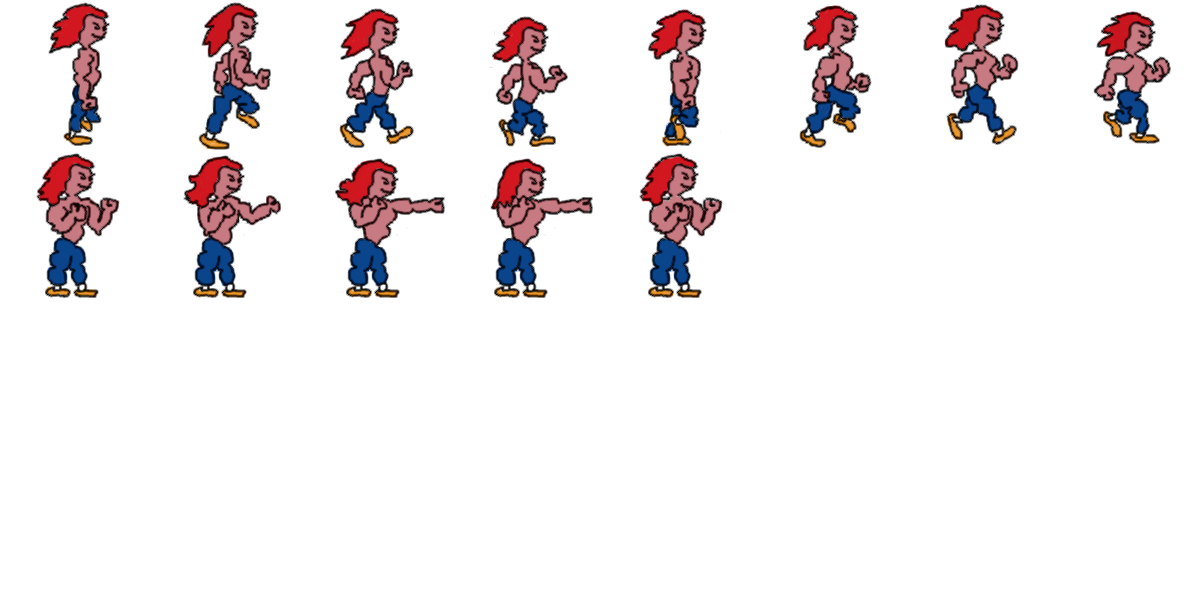
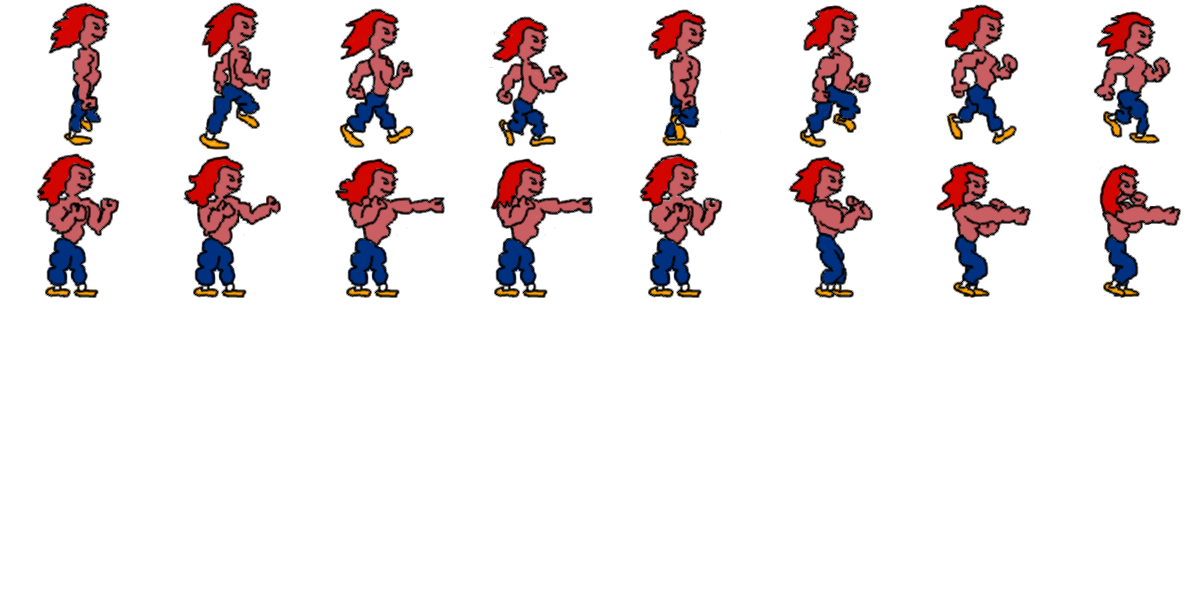
Punching with both hands

diff --git a/game.js b/game.js
@@ -305,6 +305,7 @@
         this.keys = keys;
         this.jump = 0;
         this.jumpStart = 0;
+        this.punchRight = 1;
 
         // initialization
         this.state = 'walk';
@@ -318,6 +319,7 @@
             if (this.state != "punch") {
                 this.animationFrame = 0;
                 this.state = "punch";
+                this.punchRight = this.punchRight < 1 ? 1 : 0;
                 /* This is actually a whoosh sound and will always be played, despite if punch hits or misses. 
                      * TODO: change name from punchSoundMiss to punchSoundWhoosh or something. */
                 punchSound = document.getElementById("punchSoundMiss" + (punchIter++ % 2));
@@ -388,10 +390,11 @@
         rudydres.style.top = this.y - this.jump + 'px';
 
         rudydres.style.transform = 'scaleX(' + this.scaleX + ')';
-        rudydresimage.style.marginLeft = -((Math.floor(this.animationFrame / 5) % 8) * 150) + 'px';
         if (this.state === "walk") {
+        	rudydresimage.style.marginLeft = -((Math.floor(this.animationFrame / 5) % 8) * 150) + 'px';
             rudydresimage.style.marginTop = null;
         } else if (this.state === "punch") {
+        	rudydresimage.style.marginLeft = -((Math.floor(this.animationFrame / 5) % 8) * 150) - 600 * this.punchRight + 'px';
             rudydresimage.style.marginTop = '-150px';
         }
     };
